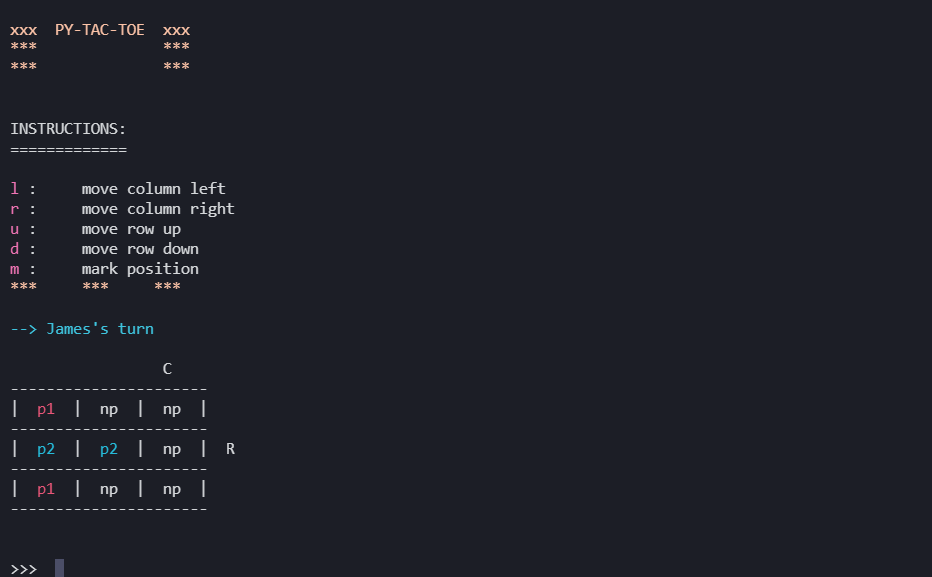
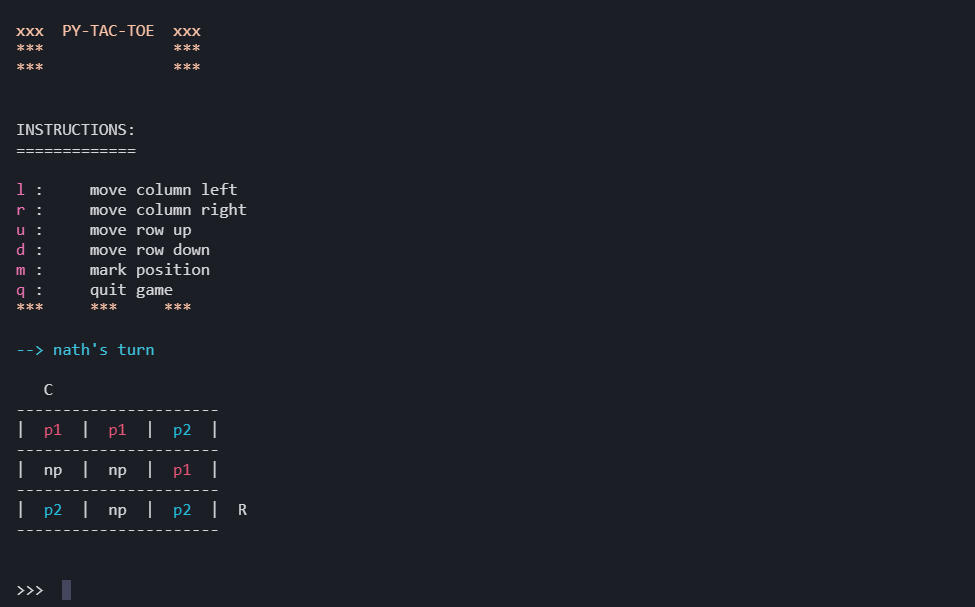
updated readme

diff --git a/README.md b/README.md
@@ -22,7 +22,9 @@ A player can navigate around the board using the navigation keys to position whe
 
 ### Required functionalities
 
--- A command key to quit the game immediately
+*this functionality will be removed from this list on next commit*
+-- A command key to quit the game immediately    ( **Completed & Working** )
+    
 
 -- Main menu that displays highest score with outlined navigations below
 
